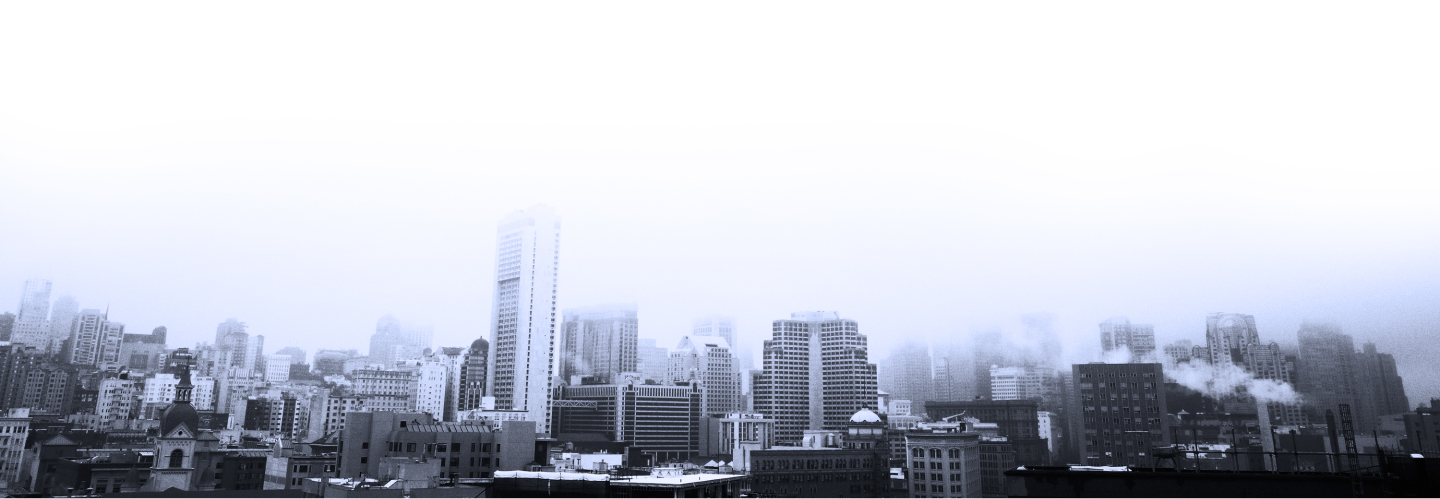
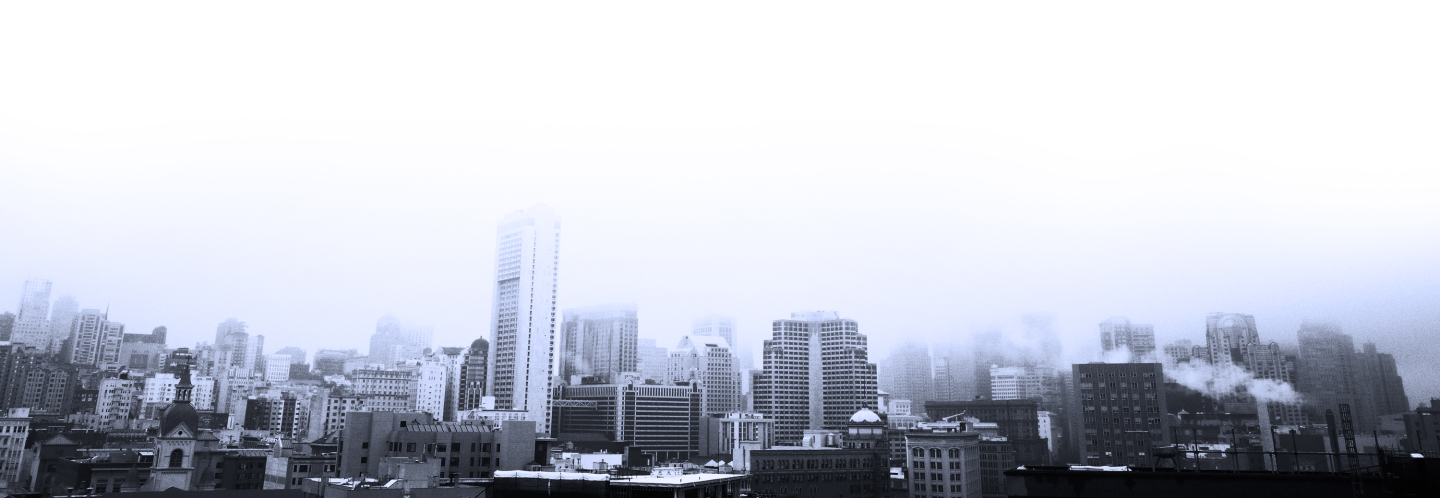
correct block 'work'

diff --git a/scss/style.scss b/scss/style.scss
@@ -357,6 +357,9 @@ body, html {
 .work {
     min-height: 498px;
     background-image: url(../img/work-bg.jpg);
+    background-position: center;
+    background-repeat: no-repeat;
+    background-size: cover;
     margin-top: 115px;
 
     &__title {

diff --git a/css/style.css b/css/style.css
@@ -373,6 +373,9 @@ body, html {
 .work {
   min-height: 498px;
   background-image: url(../img/work-bg.jpg);
+  background-position: center;
+  background-repeat: no-repeat;
+  background-size: cover;
   margin-top: 115px;
 }
 .work__title {
